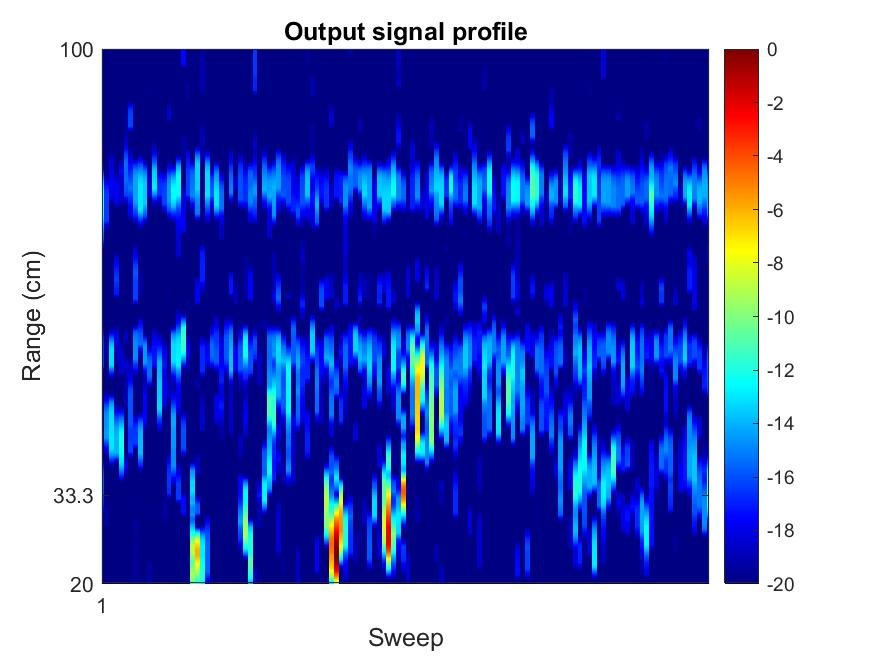
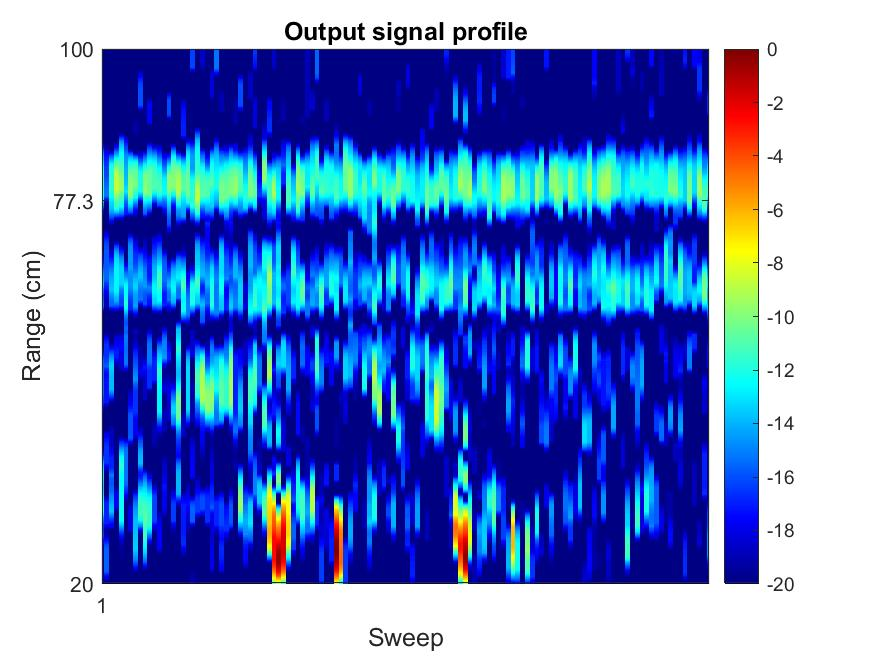
ddcd

diff --git a/project-files/subgroupC/test1_data1fb1.m b/project-files/subgroupC/test1_data1fb1.m
@@ -1,6 +1,6 @@
 clear all; close all; clc
 
-filename = "raw data xm122 yvonne/XM122 range(0.2m-1m),Max buffered frame 128,Update rate 30Hz [leftright twice1].h5";
+filename = "raw data xm122 yvonne/XM122 range(0.2m-1m),Max buffered frame 128,Update rate 30Hz [toleft twice1].h5";
 info = h5info(filename);
 
 data = h5read(filename, "/data");
